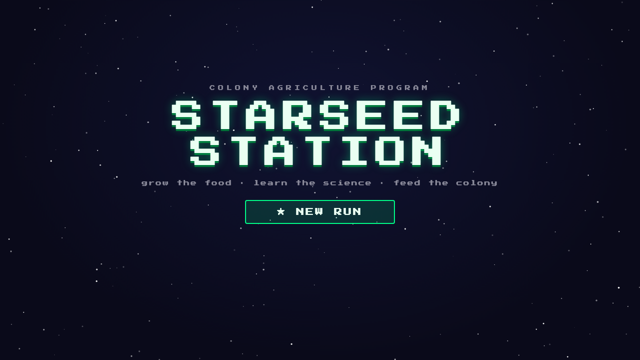
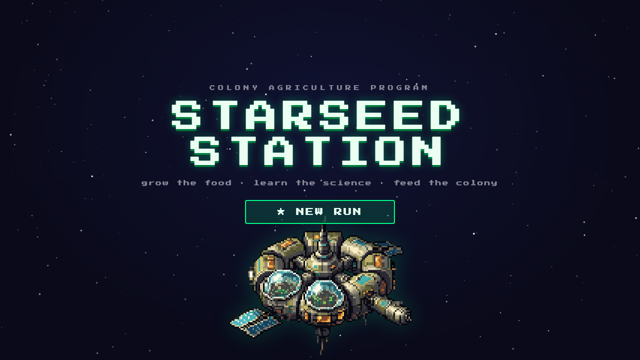
Title screen: station hero art under the menu, with a slow bob

Changed region(s): [[0.3438, 0.6111, 0.6562, 0.9778]]

diff --git a/js/shared.js b/js/shared.js
@@ -74,6 +74,8 @@ const ASSETS = {
   'autopsy-card':             'sprites/plants/autopsy_card.png',
   'dead-tray':                'sprites/plants/dead_tray.png',
 
+  'menu-station':             'sprites/menu_station.png',   // title-screen hero (122×93 native, shown 3×)
+
   /* --- Icons (badges, deaths, cursors, padlock, complete, bloom) --------- */
   'padlock':                  'sprites/icons/padlock.png',
   'complete':                 'sprites/icons/complete.png',
@@ -10100,6 +10102,14 @@ function mountStartupScreen(opts = {}) {
   const stars = document.createElement('div');
   stars.className = 'startup-stars';
   layer.appendChild(stars);
+
+  // The station itself — tucked under the subtitle, its domes peeking out
+  // behind the menu buttons, the bulk of it filling the empty band below.
+  const station = document.createElement('img');
+  station.className = 'startup-station';
+  station.src = assetUrl('menu-station');
+  station.alt = '';
+  layer.appendChild(station);
 
   const inner = document.createElement('div');
   inner.className = 'startup-inner';

diff --git a/css/shared.css b/css/shared.css
@@ -2819,6 +2819,26 @@ body.anchor-tuning-mode .hub-status-icon:active { cursor: grabbing; }
 .startup-stars { position: absolute; inset: 0; }
 .startup-stars canvas { position: absolute; inset: 0; }
 
+/* Title-screen station: 122×93 art at 3× (366×279), centred, top edge just
+   above the menu buttons so the bulk sits in the empty band beneath them.
+   Pointer-events off — the buttons above it stay clickable. Slow bob. */
+.startup-station {
+  position: absolute;
+  left: 50%;
+  top: 432px;
+  width: 366px;
+  height: 279px;
+  margin-left: -183px;
+  image-rendering: pixelated;
+  pointer-events: none;
+  filter: drop-shadow(0 0 22px rgba(0, 255, 136, 0.18));
+  animation: startup-station-bob 7s ease-in-out infinite;
+}
+@keyframes startup-station-bob {
+  0%, 100% { transform: translateY(0); }
+  50%      { transform: translateY(-5px); }
+}
+
 .startup-inner {
   position: relative;
   height: 100%;
